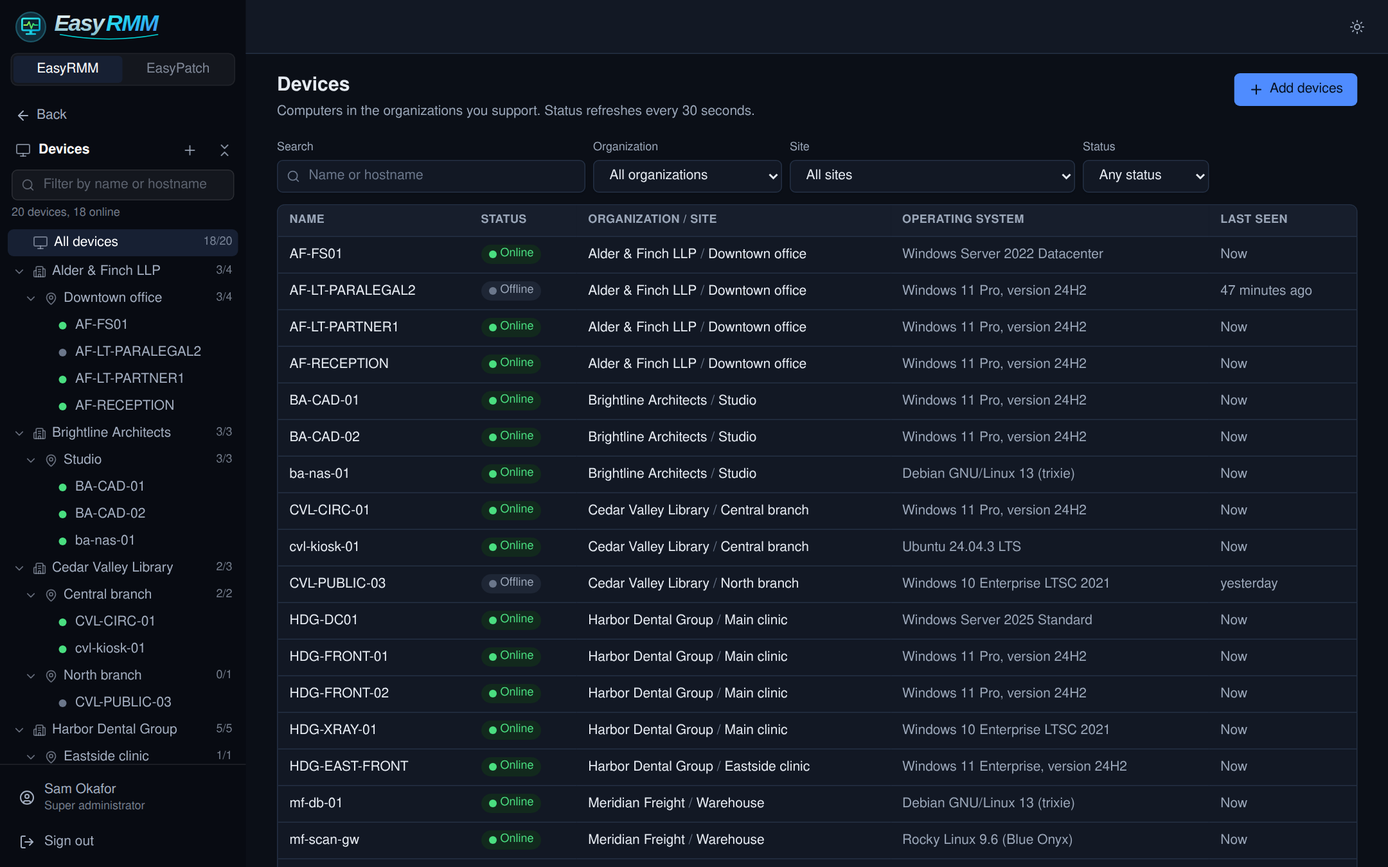
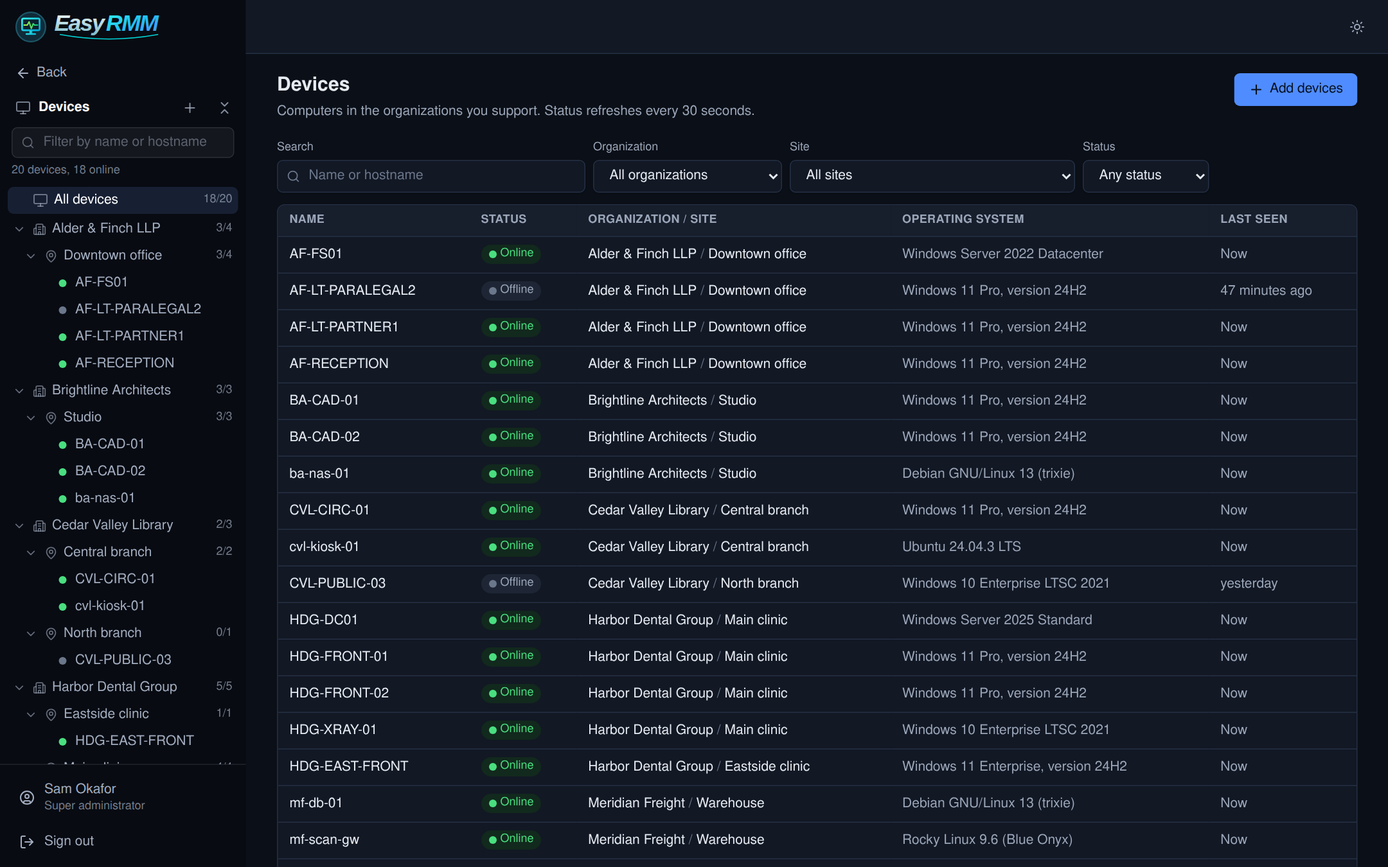
One product R6: no document names the retired parts
The sweep after R1 to R5: what still described the connector, an API
token to EasyPatch, EasyPatch's own console or licence, its own
releases, or a "bundled" engine now describes the patching engine in
every deployment.

- Architecture overview, database (easypatch_connection dropped by
  00023), threat model (the engine's statement key replaces the API
  token among the server's secrets), integration and patching guides,
  CONTRIBUTING, README, ROADMAP.
- The engine's README, TODO, security, agent-installation and
  linux-agent docs: official packages come from EasyRMM's release
  workflow, signed by the easypatch-release environment for
  easyrmm-v* tags.
- Code comments in config, easypatch, eptest, reports and the
  console's patching pages.
- The README's screenshots retaken (npm run screenshots): they showed
  the product switch R1 removed and lacked C7's tabs. The gallery's
  shot of EasyPatch's old console gives way to the patching overview.

What remains names the retired parts only as history (CHANGELOG, ADRs,
the plans, status rows marked Removed) or refuses their old settings.

Changed region(s): [[0.0, 0.0622, 0.1861, 0.9022]]

diff --git a/web/src/pages/patching/EngineAudit.tsx b/web/src/pages/patching/EngineAudit.tsx
@@ -8,7 +8,7 @@ import { formatDateTime, formatNumber, formatRelative } from "../../lib/format";
 import { useUrlState } from "../../lib/urlState";
 
 // Settings → Patching → Audit log (one-product plan, C6): EasyPatch's own audit log, which records what EasyRMM's users
-// did through EasyRMM, what was done in EasyPatch's console or API, and what EasyPatch did on its own (the rollout guard,
+// did through EasyRMM, what was done in EasyPatch's console or API before it was imported, and what EasyPatch did on its own (the rollout guard,
 // retention, scheduled reports). EasyRMM's audit log has its own record of the first.
 
 /** EasyPatch's areas, by the start of their actions' names. */

diff --git a/web/src/pages/patching/Lifecycle.tsx b/web/src/pages/patching/Lifecycle.tsx
@@ -238,7 +238,7 @@ function EntryDialog({ open, entry, onClose }: { open: boolean; entry?: PatchLif
     },
   );
   const editions = editionsFor(product);
-  // Keep a product or Windows edition EasyPatch's console saved that EasyRMM does not offer.
+  // Keep a product or Windows edition saved before an import that EasyRMM does not offer.
   const other = entry && !WINDOWS.includes(entry.product) && !LINUX.includes(entry.product) ? entry.product : null;
   const unchanged = entry !== undefined && entry.product === product;
   const editionOptions = unchanged && editions.length > 0 && !editions.includes(entry.editionGroup) ? [...editions, entry.editionGroup] : editions;

diff --git a/server/internal/reports/patch.go b/server/internal/reports/patch.go
@@ -10,12 +10,12 @@ import (
 	"github.com/paulmataruso/easyrmm/server/internal/rbac"
 )
 
-// Patch reports (one-product plan, C5) come from EasyPatch through the
-// patching connector rather than from EasyRMM's database. The connector
-// already keeps to what the caller may see; Run checks report.view and
+// Patch reports (one-product plan, C5) come from the patching engine
+// rather than from EasyRMM's database. The engine already keeps to what
+// the caller may see; Run checks report.view and
 // patch.view at each row's site besides.
 
-// PatchSource is the patching connector as the patch reports read it. The
+// PatchSource is the patching engine's client as the patch reports read it. The
 // app wires it with UsePatching; without it the patch reports are not found.
 type PatchSource interface {
 	// PatchDevices lists the devices whose patching the caller sees, in

diff --git a/server/internal/easypatch/settings.go b/server/internal/easypatch/settings.go
@@ -390,8 +390,8 @@ type AuditEntry struct {
 	ID        int64     `json:"id"`
 	CreatedAt time.Time `json:"createdAt"`
 	// Actor is who acted: an EasyRMM user's name (Via "easyrmm"), an
-	// EasyPatch user or API token (Via "easypatch"), or nobody: EasyPatch
-	// itself (Via "system").
+	// EasyPatch user or API token from before an import (Via "easypatch"),
+	// or nobody: EasyPatch itself (Via "system").
 	Actor      string `json:"actor"`
 	Via        string `json:"via"`
 	Action     string `json:"action"`

diff --git a/server/internal/reports/reports.go b/server/internal/reports/reports.go
@@ -134,7 +134,7 @@ type definition struct {
 	perm    rbac.Permission
 	columns []Column
 	run     func(ctx context.Context, tx pgx.Tx, q Query, out emit) error
-	// patch, instead of run, reads the report from the patching connector
+	// patch, instead of run, reads the report from the patching engine
 	// and says whether it had more rows than it gave.
 	patch func(ctx context.Context, src PatchSource, c access.Caller, q Query, out emit) (bool, error)
 }

diff --git a/server/internal/easypatch/agentedge.go b/server/internal/easypatch/agentedge.go
@@ -92,7 +92,7 @@ func NewAgentProxy(target *url.URL, secure bool, log *slog.Logger) http.Handler 
 			pr.Out.Host = pr.In.Host
 			pr.Out.Header.Del("Forwarded")
 			pr.Out.Header.Del("Cookie")
-			// Only EasyRMM's connector makes statements, on loopback.
+			// Only EasyRMM makes statements, on loopback.
 			pr.Out.Header.Del(StatementHeader)
 			// The address EasyRMM resolved: the peer, or in offload mode
 			// what its trusted proxy reported.

diff --git a/server/internal/easypatch/install.go b/server/internal/easypatch/install.go
@@ -95,7 +95,7 @@ func (s *installScan) view() *AgentInstall {
 	return v
 }
 
-// SetSigner gives the connector the server's job key, which signs install
+// SetSigner gives the service the server's job key, which signs install
 // instructions as it signs jobs and updates. Without it nothing is sent.
 func (s *Service) SetSigner(key ed25519.PrivateKey) { s.signer = key }
 

diff --git a/server/internal/easypatch/eptest/manage.go b/server/internal/easypatch/eptest/manage.go
@@ -437,7 +437,8 @@ func (s *Server) Changes() int {
 	return n
 }
 
-// ChangeSite changes a site, as someone in EasyPatch's own console would.
+// ChangeSite changes a site behind EasyRMM's back, as an imported server's
+// settings or a direct database edit would.
 func (s *Server) ChangeSite(id uuid.UUID, fn func(x *SiteInfo)) {
 	s.mu.Lock()
 	defer s.mu.Unlock()

diff --git a/server/internal/config/config.go b/server/internal/config/config.go
@@ -101,7 +101,7 @@ type Config struct {
 	Authentik Authentik
 }
 
-// DefaultPatchingURL is where the bundled engine listens
+// DefaultPatchingURL is where the patching engine listens
 // (deploy/docker-compose.yml, easypatch-api).
 const DefaultPatchingURL = "http://127.0.0.1:18180"
 

diff --git a/IMPLEMENTATION_STATUS.md b/IMPLEMENTATION_STATUS.md
@@ -101,7 +101,7 @@ Last updated: 2026-11-16.
 | Patch policies and tags (one-product C4) | Complete; policy changes not yet applied by a real Windows endpoint. **Editor**, one for every layer: default policy (Settings → Patching), organization and site (**Patch policy** tab), tag (Settings → Patching → Tags), device (**Set values for this device**). Each value inherited, with its source layer, or overridden: automatic installs, maintenance window, pre-download, delays and the known-exploited exception; categories, optional updates, licence terms, excluded KBs; winget application updates; recurring restart, tray icon, notifications, agent updates; check-in, scan and inventory intervals, spread, stale scans, site limit; Windows Update groups inherited, left alone or managed. Checked as EasyPatch checks, plus no category and automatic installs with no window refused. **Tags**: add, change, delete (typed name), priority 0–1000; given to organizations, sites and devices, at most 20 each; inherited tags shown. Statements: Admin for the organization's levels, SuperAdmin for every organization for the default policy and tags. **Connected server**: its token is never SuperAdmin, so the default policy is read-only, tags are listed and assigned (with an all-organizations token) but not managed, and tags' policies are not shown, each with the reason. Audited as `patch.policy_update` (values changed), `patch.policy_reset`, `patch.tag_create`, `patch.tag_update`, `patch.tag_delete`, `patch.tag_assign`. Verified: PostgreSQL integration tests (every level, inheritance sources, statements, validation, tags, a connected server, lost replies), the HTTP API test (connected), the contract test against EasyPatch built from the same commit (round trip of every field, refusals matching EasyRMM's, tags and their policies, what an Operator token may and may not do), console tests, and the bundle test (organization value inherited by the site, a tag with a policy and the device's own value, each in the device's policy in effect with its layer). **Not ported**: giving or taking a tag from many devices at once |
 | Patch reports (one-product C5) | Complete; no report yet emailed through a real mail server or made from a real Windows fleet. **Reports** gains **Patch compliance** (each device EasyRMM sees patching of, as EasyPatch last saw it: compliance, missing required and total, failed, known-exploited, restart pending, operating system with build and support status, online, last scan and check-in; why a device is not patched), with the **Compliance trend** above it (30 or 90 days or a year, added up over the organizations seen whole), and **Patch installations** (each update an install job finished with, filtered by period, category and result, at most 5,000 rows); both filter, show 1,000 rows, export CSV and are audited as `report.export` like the other reports. **Monthly patch reports**: make a past month's or the month so far for an organization (`patch.manage` over it; Admin statement), with or without a page per device; download the PDF, email it (at most 20 recipients, or the schedule's) and delete it; the newest 200 listed. **Report schedules** under Settings → Patching (`patch.configure`): on or off, day 1 to 28, recipients, page per device. With the bundled engine, EasyRMM gives the engine its `EASYRMM_SMTP_` mail server at each start (SuperAdmin service statement); mail errors say where to set one (`.env` or EasyPatch's console). Audited as `patch.report_generate`, `patch.report_download`, `patch.report_send`, `patch.report_delete`, `patch.report_schedule`. Verified: PostgreSQL integration tests (trend arithmetic and scopes, installations paging, the cap and filters, compliance and installation rows, monthly reports by role, validation and mail errors, schedules, a connected server's mail message, the engine given EasyRMM's mail server), the HTTP API test, the contract test against EasyPatch built from the same commit (trend, installations, generate, list, PDF, refused send without and with an unencrypted mail server, delete, schedule, mail settings), console tests, and the bundle test (compliance and installation rows on a Debian machine, CSV, month-so-far PDF, the no-mail-server message, delete, schedule).
 | EasyPatch's own settings (one-product C6) | Complete. Settings → Patching gains **Server** (version; vulnerability data on or off with each feed's last download, entries and error; rollout guard; monthly reports' "Prepared by" line and retention; jobs, agents and retention, each checked against EasyPatch's bounds; settings EasyRMM does not show are sent back unchanged), **OS lifecycle** (list with support state, filter by product; add, change and delete with the products and Windows edition groups EasyPatch matches; duplicates refused), **Agent packages** (file, version, system, architecture, size, SHA-256, signature, download through EasyRMM's address with the bundled engine) and **Audit log** (EasyPatch's audit log for organizations audited whole, everything for those who audit everywhere; EasyRMM names for organizations, devices and users; organization, area and day filters; 50 a page). Reading needs `patch.configure` (ReadOnly statement); changing, a super administrator (SuperAdmin statement); the audit log `audit.view` and `patch.view` (Admin statement for the organizations, or every one). With a connected server the settings and lifecycle are read only, and a Read only token is refused the audit log. Audited as `patch.settings_update` (each change, from and to) and `patch.lifecycle_create`, `patch.lifecycle_update`, `patch.lifecycle_delete`. Verified: PostgreSQL integration tests (roles, statements, validation, unchanged saves, hidden settings kept, lifecycle CRUD and duplicates, package URLs, audit scopes, filters and names, connected refusals), the HTTP API test, the contract test against EasyPatch built from the same commit (settings round trip keeping hidden ones, token refused, feeds, lifecycle create, conflict, update, invalid, delete, audit log by statement and filter, read-only refused, eptest shapes), console tests, and the bundle test (a setting saved and reloaded, a lifecycle entry added, changed and deleted, the .deb downloaded, both audit logs). EasyPatch's lifecycle validator allows 100-character products where its database keeps 64 (a 500 from 65 to 100); EasyRMM stops at 64 |
-| Patching alerts, alert rules and notifications (one-product C7) | Complete with the bundled engine; real email and webhook delivery not tested. Patching → **Alerts** (open and acknowledged by default, or open, acknowledged, resolved or all; organization, severity, type and search filters; one device's with `deviceId`; at most 200, the most severe first; acknowledge one or up to 200 together, for alerts of devices where the caller has `patch.manage` and an organization's own where they have it over the whole organization), and the overview's open count. Settings → Patching → **Alert rules** (EasyPatch's nine types with their thresholds, organization and tag, channels, reminders, resolve messages, on or off; a rule on an unlinked EasyPatch organization must be given a linked one) and **Notifications** (email and Slack, Teams or generic webhook channels; the webhook address never shown, only its host; a generic webhook's signing key shown once and renewable; tests, refused within 30 seconds; EasyRMM's mail server shown read only; webhooks to private networks; messages by channel and result, 50 a page), for super administrators with the bundled engine (SuperAdmin statements); with a connected server alerts use the token and rules and channels are refused as EasyPatch's console's. Audited as `patch.alert_acknowledge` (per device and per organization), `patch.alert_rule_create`, `_update`, `_delete`, `patch.channel_create`, `_update`, `_delete`, `_test`, `_rotate_secret` and `patch.notifications_update`. Verified: PostgreSQL integration tests (who sees and acknowledges which alerts, counts, filters and validation, rules and channels with their checks and audit, lost replies record nothing, connected and down), the HTTP API test, the contract test against EasyPatch built from the same commit (rule types, filters, acknowledge, rules and channels round trips, tests and their limit, messages, eptest shapes), console tests, and the bundle test (an email channel tested; EasyPatch's unsupported-OS rule sent to it; Debian 12's end of support moved near; the machine's alert raised by the real engine, acknowledged in the console and queued for the channel). Webhooks to the server's own subnets are always refused by EasyPatch, so with the bundled engine (host networking) a receiver on the server's own subnet cannot be reached |
+| Patching alerts, alert rules and notifications (one-product C7) | Complete with the patching engine; real email and webhook delivery not tested. Patching → **Alerts** (open and acknowledged by default, or open, acknowledged, resolved or all; organization, severity, type and search filters; one device's with `deviceId`; at most 200, the most severe first; acknowledge one or up to 200 together, for alerts of devices where the caller has `patch.manage` and an organization's own where they have it over the whole organization), and the overview's open count. Settings → Patching → **Alert rules** (EasyPatch's nine types with their thresholds, organization and tag, channels, reminders, resolve messages, on or off; a rule on an unlinked EasyPatch organization must be given a linked one) and **Notifications** (email and Slack, Teams or generic webhook channels; the webhook address never shown, only its host; a generic webhook's signing key shown once and renewable; tests, refused within 30 seconds; EasyRMM's mail server shown read only; webhooks to private networks; messages by channel and result, 50 a page), for super administrators with the bundled engine (SuperAdmin statements); with a connected server alerts use the token and rules and channels are refused as EasyPatch's console's. Audited as `patch.alert_acknowledge` (per device and per organization), `patch.alert_rule_create`, `_update`, `_delete`, `patch.channel_create`, `_update`, `_delete`, `_test`, `_rotate_secret` and `patch.notifications_update`. Verified: PostgreSQL integration tests (who sees and acknowledges which alerts, counts, filters and validation, rules and channels with their checks and audit, lost replies record nothing, connected and down), the HTTP API test, the contract test against EasyPatch built from the same commit (rule types, filters, acknowledge, rules and channels round trips, tests and their limit, messages, eptest shapes), console tests, and the bundle test (an email channel tested; EasyPatch's unsupported-OS rule sent to it; Debian 12's end of support moved near; the machine's alert raised by the real engine, acknowledged in the console and queued for the channel). Webhooks to the server's own subnets are always refused by EasyPatch, so with the bundled engine (host networking) a receiver on the server's own subnet cannot be reached |
 | EasyPatch agent installed by EasyRMM | Complete for Linux (apt-get and dnf); built for Windows, where only the refusal has run. ADR-0031. **Install EasyPatch agent** on chosen devices with no EasyPatch agent (Patching, or the device's Patches tab, `patch.manage`), or **Install automatically** per linked organization (Settings → EasyPatch, `settings.manage`; failed automatic installs retried hourly, three times). The server signs an instruction into the agent's heartbeat (job key, own signature context, bound to the device, 15 minutes) with EasyPatch's address and CA, the newest package for the device and a single-use, one-hour enrollment token for the linked organization (site matched by name), never stored and revoked on failure. The agent checks again that no EasyPatch agent is present, downloads the package, verifies its size and SHA-256, installs it (msiexec; apt-get or dnf with systemd) and enrolls it, one install at a time within 20 minutes; agent updates wait for it. The console shows each install's state and the reason it failed. Audited. Verified: unit tests (signing and every check, the installer with a fake system, Linux with stand-in apt-get, dnf and enroll programs, downloads over TLS), PostgreSQL integration tests (requests, roles, eligibility, heartbeats, preparation failures, timeouts, automatic installs and retries, token revocation), an HTTP API test, console tests, and on the preview against a real EasyPatch 1.9.0: a device without systemd failed with that reason and its token was revoked; on a Debian 13 container with systemd (installed with the console's own install command), the EasyPatch agent was downloaded, installed with apt-get and enrolled within 12 seconds of the instruction, and the device linked to its new endpoint four minutes after the request; on a Rocky Linux 9 container with systemd, the RPM package was installed with dnf and enrolled, and the device linked, with EasyPatch's first scan listing 106 missing updates; on two Windows Server 2025 machines that already run an EasyPatch agent, the install was refused with that reason. **Not yet verified**: the Windows installer path (msiexec, `SERVERCACERT`, enroll) on a Windows machine without EasyPatch, arm64, and automatic installs on the preview (its only linked organization holds real Windows machines) |
 | Script library warning | Complete. Where EasyPatch is set up, scripts that install updates themselves (Windows Update through PSWindowsUpdate, the Windows Update Agent API, `usoclient`, `wuauclt`, `wusa`, DISM; Windows Update policy writes; upgrading every package with apt, dnf, yum, zypper, pacman or apk; release upgrades; automatic updates) are flagged, line by line, while editing, on the script's page and in the run dialog, for people with `patch.view`. Python is checked through its string literals; comments are skipped; one named package, winget and Chocolatey are not flagged. A text check: it warns and refuses nothing. Verified: unit tests of what is and is not flagged per shell, console tests |
 | EasyPatch on the same server (ADR-0035) | **Removed** in one-product R1 (ADR-0046), after being refused since S1: the SNI passthrough, the PROXY protocol code, the loopback route the connector used, `deploy/easypatch/` and the guide are gone. `EASYRMM_EASYPATCH_HOSTNAME` set still stops the server with "no longer a setting" (unit-tested), and `setup.sh` tidies away the empty settings; such an EasyPatch is imported instead (below) |

diff --git a/ROADMAP.md b/ROADMAP.md
@@ -12,7 +12,7 @@ feature in it is **Complete** in [`IMPLEMENTATION_STATUS.md`](IMPLEMENTATION_STA
 | 5. MeshCentral integration | Container and config, control client, user/group sync, edge gateway, session launch, embedded desktop/terminal/files | Implemented and tested locally (including a real agent end to end); waiting for its first CI run on GitHub |
 | 6. Unified endpoint installation | Go agent, enrollment, MeshAgent install and correlation, MSI/EXE/PowerShell, DEB/RPM/script, updates, uninstall | In progress: Linux and Windows agents, deployment tokens and approval, MeshAgent install and correlation, install scripts, uninstall and coordinated agent updates (ADR-0027) done; the Windows agent verified on Windows Server 2025. MSI and DEB/RPM packages to do |
 | 7. Core RMM | Inventory, telemetry, monitoring, alerts, scripts, jobs, software deployment | Done: inventory, telemetry, alerts, scripts, jobs, software deployment (ADR-0028) and reports (ADR-0029); see `IMPLEMENTATION_STATUS.md`. The winget and Chocolatey scripts have not been run on Windows |
-| 8. EasyPatch | EasyPatch changes (integration credentials, external ids…), connector, native patch UI | Done: connector and patch UI (ADR-0030), installing the EasyPatch agent from EasyRMM (ADR-0031); verified on Linux (apt-get and dnf) against EasyPatch 1.9.0; the script library warns about scripts that install updates themselves. On Windows, detection and refusal verified; the installer path and patching a linked Windows endpoint not yet run |
+| 8. EasyPatch | EasyPatch changes (integration credentials, external ids…), connector, native patch UI | Done: patch UI (ADR-0030; its connector to a separately run EasyPatch server retired in one-product R2 for the engine in every deployment), installing the EasyPatch agent from EasyRMM (ADR-0031); verified on Linux (apt-get and dnf) against EasyPatch 1.9.0; the script library warns about scripts that install updates themselves. On Windows, detection and refusal verified; the installer path and patching a linked Windows endpoint not yet run |
 | 9. Production hardening | Security review, performance and soak tests, backup/restore drills, release pipeline, documentation completion | In progress: Go 1.27.4 for a standard-library vulnerability; release pipeline (not yet run on GitHub); security review done, its findings fixed or documented (`docs/security/security-review.md`); backup and restore drill passing (`scripts/drill/`), after fixing the deployment and guide bugs it found; upgrade guide, and a release bundle that deploys; load and soak drill with 2,000 simulated agents for an hour: no errors, jobs on 500 devices in about 6 s, and a nonce table that grew for an hour now pruned every minute (`docs/development/drills.md`) |
 | 10. One product | EasyPatch folded into EasyRMM: one licence, EasyPatch's engine inside EasyRMM's deployment, one console in EasyRMM's design, the Authentik install option, retiring the standalone pieces | In progress: plan in `docs/architecture/one-product-plan.md`; phase L (one licence, ADR-0037) done |
 

diff --git a/docs/architecture/overview.md b/docs/architecture/overview.md
@@ -33,7 +33,7 @@ common collisions. See [network.md](network.md) for the complete port table.
 
 | Component | Technology | Responsibility |
 |---|---|---|
-| `easyrmm-server` | Go modular monolith | TLS edge, web UI hosting, REST API, agent gateway, MeshCentral gateway and control client, job scheduler, monitoring engine, notification delivery, EasyPatch connector |
+| `easyrmm-server` | Go modular monolith | TLS edge, web UI hosting, REST API, agent gateway, MeshCentral gateway and control client, job scheduler, monitoring engine, notification delivery, the patching engine's client (ADR-0038) |
 | `web` | React + TypeScript + Vite, designed with Impeccable | The only user interface. Embedded into the server binary at build time |
 | `easyrmm-agent` | Go, single static binary per OS/arch | Enrolment, identity, inventory, telemetry, job and script execution, software management, MeshAgent and EasyPatch-agent supervision, self-update |
 | MeshAgent | Upstream binary, pinned version | Remote desktop, terminal, file transfer and RDP tunnel transport |
@@ -176,16 +176,19 @@ report data about itself and receive its own jobs, nothing else.
 
 See ADR-0010 and [docs/integrations/easypatch.md](../integrations/easypatch.md).
 EasyPatch is EasyRMM's patch management component. Its code is in
-`easypatch/` of this repository, under its own licence
-([LICENSING.md](../../LICENSING.md)), and it builds, releases and runs as its
-own server ([monorepo.md](../development/monorepo.md)). It is the source of
-truth for patch state, and EasyRMM can use any EasyPatch server.
-EasyRMM talks to it server-to-server with an EasyPatch API token (ADR-0030)
-and renders patch state natively behind EasyRMM's roles. On request, or for
-every device in an organization set to install automatically, the EasyRMM
-agent downloads the EasyPatch agent from the customer's EasyPatch server,
-checks it and enrolls it (ADR-0031). EasyPatch is never redistributed with
-EasyRMM.
+`easypatch/` of this repository, under the same licence
+([LICENSING.md](../../LICENSING.md)) ([monorepo.md](../development/monorepo.md)).
+Its server runs in every EasyRMM deployment as the patching engine, on
+loopback, with no console or accounts of its own (ADR-0046), and is released
+with EasyRMM, built from the same commit (ADR-0043). It is the source of
+truth for patch state. EasyRMM calls it with a signed statement per request
+naming the person, their role and the organizations of that call
+(ADR-0038), keeps its organizations and sites in step with EasyRMM's
+(ADR-0040), and renders patch state natively behind EasyRMM's roles. On
+request, or for every device in an organization set to install
+automatically, the EasyRMM agent downloads the EasyPatch agent from the
+engine through EasyRMM's address, checks it and enrolls it (ADR-0031,
+ADR-0039).
 
 ## 9. Deployment
 
